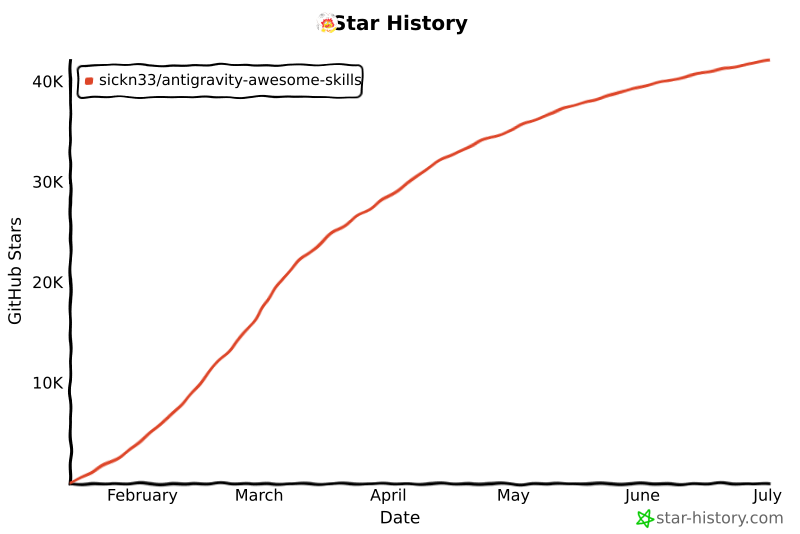
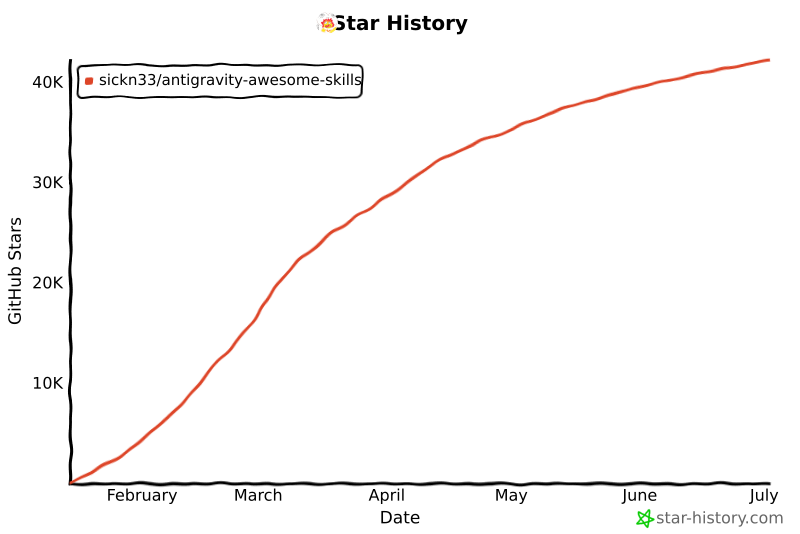
chore: update star history chart

diff --git a/README.md b/README.md
@@ -517,14 +517,14 @@ We officially thank the following contributors for their help in making this rep
 ## Star History
 
 <a href="https://www.star-history.com/#sickn33/antigravity-awesome-skills&type=date&legend=top-left">
- <img alt="Star History Chart" src="https://api.star-history.com/svg?repos=sickn33/antigravity-awesome-skills&type=date&legend=top-left&cache_bust=202607020853" />
+ <img alt="Star History Chart" src="https://api.star-history.com/svg?repos=sickn33/antigravity-awesome-skills&type=date&legend=top-left&cache_bust=202607030915" />
 </a>
 
 <a href="https://www.star-history.com/sickn33/antigravity-awesome-skills">
  <picture>
-   <source media="(prefers-color-scheme: dark)" srcset="https://api.star-history.com/chart?repos=sickn33/antigravity-awesome-skills&style=landscape1&theme=dark&cache_bust=202607020853" />
-   <source media="(prefers-color-scheme: light)" srcset="https://api.star-history.com/chart?repos=sickn33/antigravity-awesome-skills&style=landscape1&cache_bust=202607020853" />
-   <img alt="Star History Chart" src="https://api.star-history.com/chart?repos=sickn33/antigravity-awesome-skills&style=landscape1&cache_bust=202607020853" />
+   <source media="(prefers-color-scheme: dark)" srcset="https://api.star-history.com/chart?repos=sickn33/antigravity-awesome-skills&style=landscape1&theme=dark&cache_bust=202607030915" />
+   <source media="(prefers-color-scheme: light)" srcset="https://api.star-history.com/chart?repos=sickn33/antigravity-awesome-skills&style=landscape1&cache_bust=202607030915" />
+   <img alt="Star History Chart" src="https://api.star-history.com/chart?repos=sickn33/antigravity-awesome-skills&style=landscape1&cache_bust=202607030915" />
  </picture>
 </a>
 
